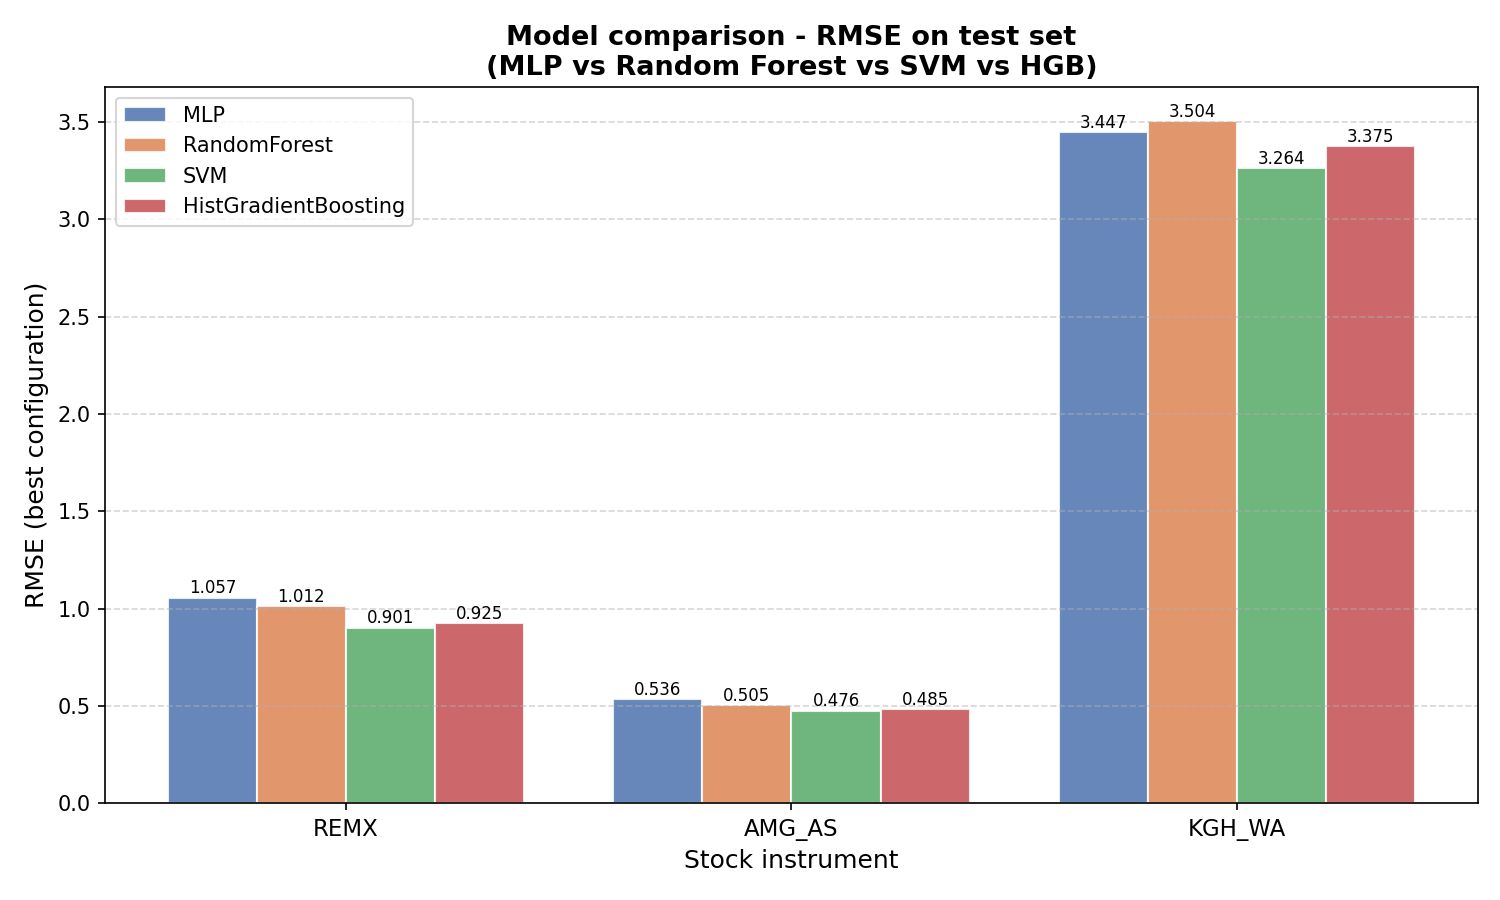
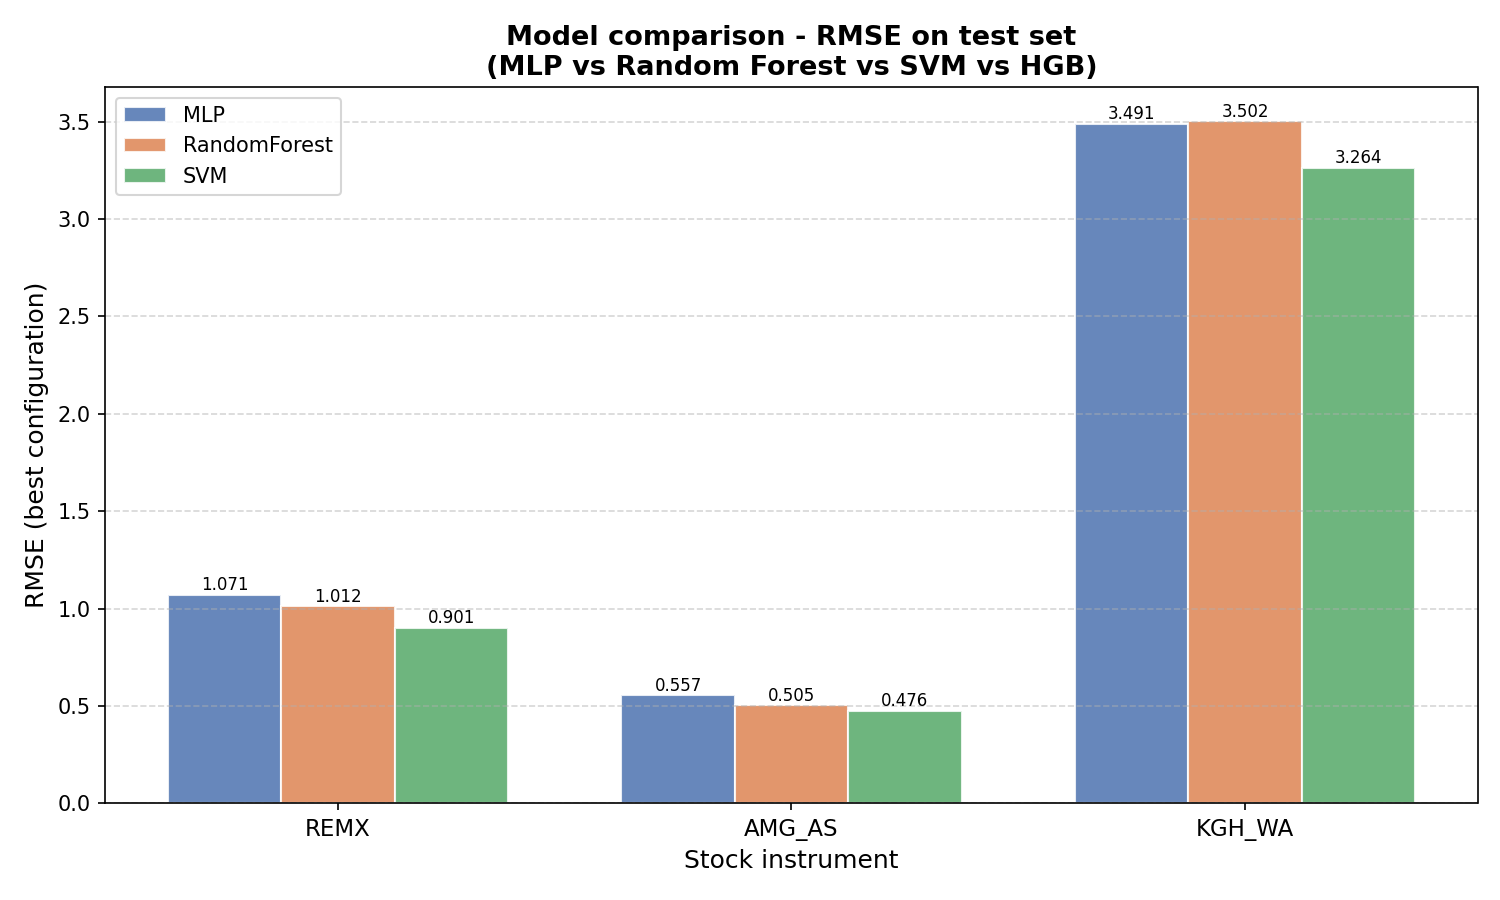
Small changes to the code for raport purposes.

diff --git a/main.py b/main.py
@@ -100,7 +100,7 @@ def parse_arguments():
     return parser.parse_args()
 
 
-def main():
+def main_func():
     args = parse_arguments()
 
     print("=" * 60)
@@ -176,19 +176,18 @@ def main():
     print(f"  RMSE             : {metrics['rmse']:.4f}")
     print(f"  Direction acc.   : {metrics['direction_accuracy']:.1f}%")
 
-    if not args.no_plot and args.model == "mlp" and history is not None:
-        print("\nGenerating plots...")
-        files = save_all_plots(
-            model, X_test, y_test, history,
-            ticker=args.ticker,
-            hidden=args.hidden,
-            lr=args.lr,
-            epochs=args.epochs
-        )
-        print(f"  Plots saved ({len(files)} PNG files)")
+    print("\nGenerating plots...")
+    files = save_all_plots(
+        model, X_test, y_test, history,
+        ticker=args.ticker,
+        hidden=args.hidden,
+        lr=args.lr,
+        epochs=args.epochs
+    )
+    print(f"  Plots saved ({len(files)} PNG files)")
 
     print("\nDone.")
 
 
 if __name__ == "__main__":
-    main()
+    main_func()

diff --git a/experiments/learning_curves.py b/experiments/learning_curves.py
@@ -1,17 +1,3 @@
-"""Learning curves for all models.
-
-Two kinds of curves are produced for every ticker:
-
-1. MLP epoch curve - train MSE loss and test RMSE measured after every epoch
-   (results/plots/learning_curve_mlp_<ticker>.png, results/mlp_epoch_curves.csv)
-
-2. Train-size curve - every model is trained on a growing chronological
-   fraction of the training set (the most recent samples, so the train window
-   always ends right before the test window) and evaluated on the fixed test
-   set (results/plots/learning_curve_sizes_<ticker>.png,
-   results/learning_curves.csv)
-"""
-
 import sys
 import os
 import numpy as np

diff --git a/experiments/feature_ablation.py b/experiments/feature_ablation.py
@@ -1,14 +1,3 @@
-"""Feature ablation study - impact of the engineered features.
-
-Every model is trained with four feature sets:
-  base5      : Open, High, Low, Close, Volume
-  base5+mean : base5 + Close_mean_5  (5-day rolling mean)
-  base5+q75  : base5 + Close_q75_5   (5-day rolling 75th percentile)
-  all7       : base5 + both engineered features (current pipeline)
-
-Results: results/feature_ablation.csv + results/plots/feature_ablation.png
-"""
-
 import sys
 import os
 import time

diff --git a/experiments/param_study.py b/experiments/param_study.py
@@ -1,11 +1,3 @@
-"""Parameter study for all models (MLP, RandomForest, SVM, HistGradientBoosting).
-
-For each ticker and each model a grid of hyperparameters is evaluated on the
-chronological test split. Results (MAE, MSE, RMSE, direction accuracy, time)
-are stored in results/param_study.csv and one figure per model is generated
-(RMSE and direction accuracy vs. parameter, one subplot column per ticker).
-"""
-
 import sys
 import os
 import time

diff --git a/experiments/run_experiments.py b/experiments/run_experiments.py
@@ -20,9 +20,9 @@ TICKERS = {
     "KGH_WA": os.path.join(ROOT, "data", "KGH_WA.csv"),
 }
 
-HIDDEN_SIZES   = [[5], [10], [10, 5]]
-LEARNING_RATES = [0.01, 0.001]
-EPOCHS_LIST    = [100, 300, 500]
+HIDDEN_SIZES   = [[10], [25], [50], [25, 10], [50, 25]]
+LEARNING_RATES = [0.001, 0.0001, 0.00005]
+EPOCHS_LIST    = [100, 300, 500, 800]
 
 INPUT_SIZE  = 7
 OUTPUT_SIZE = 1

diff --git a/experiments/prediction_plots.py b/experiments/prediction_plots.py
@@ -1,10 +1,3 @@
-"""Prediction plots - all four models on the test set, per ticker.
-
-Each figure (results/plots/predictions_all_models_<ticker>.png) shows the
-actual next-day price change and the prediction of every model on its own
-subplot, annotated with RMSE and direction accuracy.
-"""
-
 import sys
 import os
 import numpy as np

diff --git a/experiments/make_summary.py b/experiments/make_summary.py
@@ -1,9 +1,3 @@
-"""Builds results/summary_tables.md - report-ready markdown tables
-from the CSV files produced by the experiment scripts.
-
-Run after: compare_models.py, param_study.py, feature_ablation.py
-"""
-
 import os
 import pandas as pd
 

diff --git a/experiments/compare_models.py b/experiments/compare_models.py
@@ -27,7 +27,7 @@ TICKERS = {
 
 MLP_HIDDEN  = [25]
 MLP_LR      = 0.0001
-MLP_EPOCHS  = 300
+MLP_EPOCHS  = 200
 INPUT_SIZE  = 7
 OUTPUT_SIZE = 1
 
